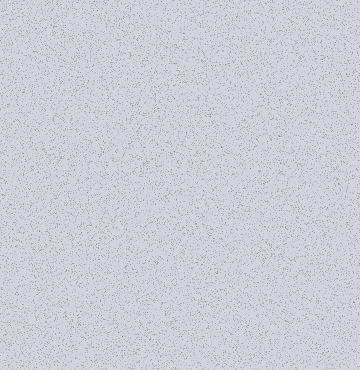
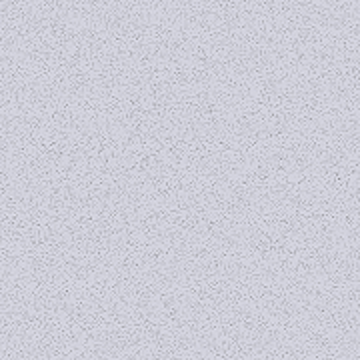
perfilar los fondos de los seleccionado2

Changed region(s): [[0.6722, 0.8861, 0.7028, 0.9167], [0.4889, 0.1833, 0.5194, 0.2139], [0.4278, 0.275, 0.4583, 0.3056]]

diff --git a/css/estilo.css b/css/estilo.css
@@ -42,23 +42,20 @@ input.barra
     width: 230px;
 }
 .zoomIt{
-	padding-top:5pt;
-	padding-left:5pt;
 	
-	padding-bottom:5pt;
 	display:block!important;
-	-webkit-transition:-webkit-transform 1s ease-out;
-	-moz-transition:-moz-transform 1s ease-out;
-	-o-transition:-o-transform 1s ease-out;
-	-ms-transition:-ms-transform 1s ease-out;
-	transition:transform 1s ease-out;
+	-webkit-transition:-webkit-transform 2s ease-out;
+	-moz-transition:-moz-transform 2s ease-out;
+	-o-transition:-o-transform 2s ease-out;
+	-ms-transition:-ms-transform 2s ease-out;
+	transition:transform 2s ease-out;
 }
 .zoomIt:hover{
-	-moz-transform: scale(1.1);
-	-webkit-transform: scale(1.1);
-	-o-transform: scale(1.1);
-	-ms-transform: scale(1.1);
-	transform: scale(1.1);
+	-moz-transform: scale(1.2);
+	-webkit-transform: scale(1.2);
+	-o-transform: scale(1.2);
+	-ms-transform: scale(1.2);
+	transform: scale(1.2);
 	
 }
 
@@ -102,9 +99,10 @@ tr.tabla:hover{
 }
 .seleccionado2{
 	background:url(../img/ruido.PNG);
-	border-radius:10px ;
-	-moz-border-radius:10px;
-	-webkit-border-radius: 10px ;
+	border-radius:5px 0px 0px 0px ;
+	-moz-border-radius:5px;
+	-webkit-border-radius: 5px ;
+	text-align: center;
 }
 
 .contenido {
